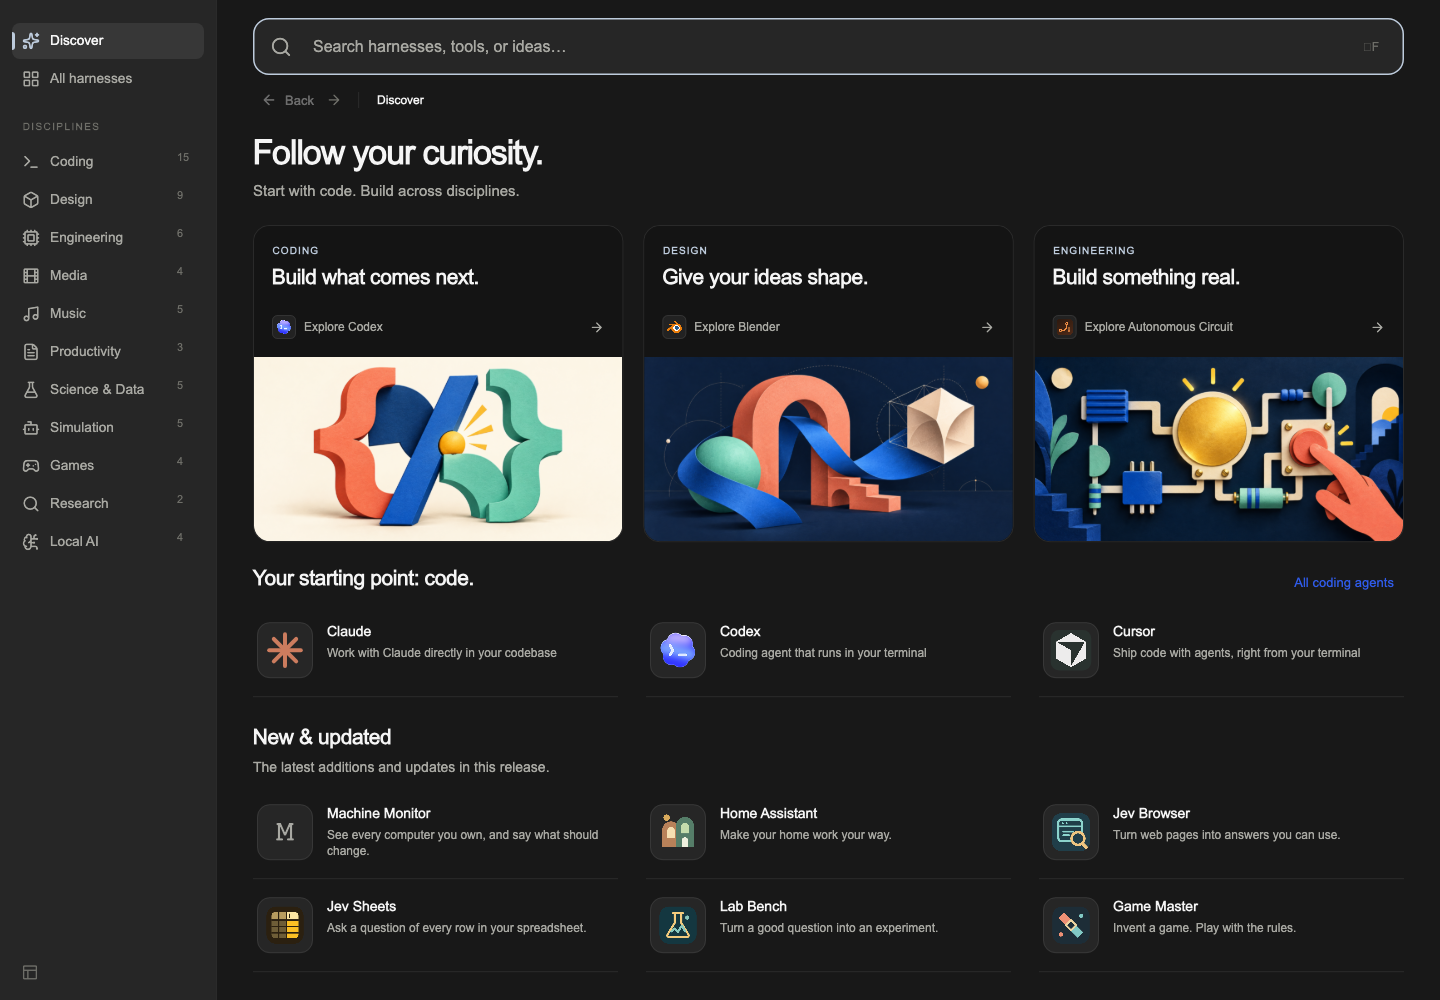
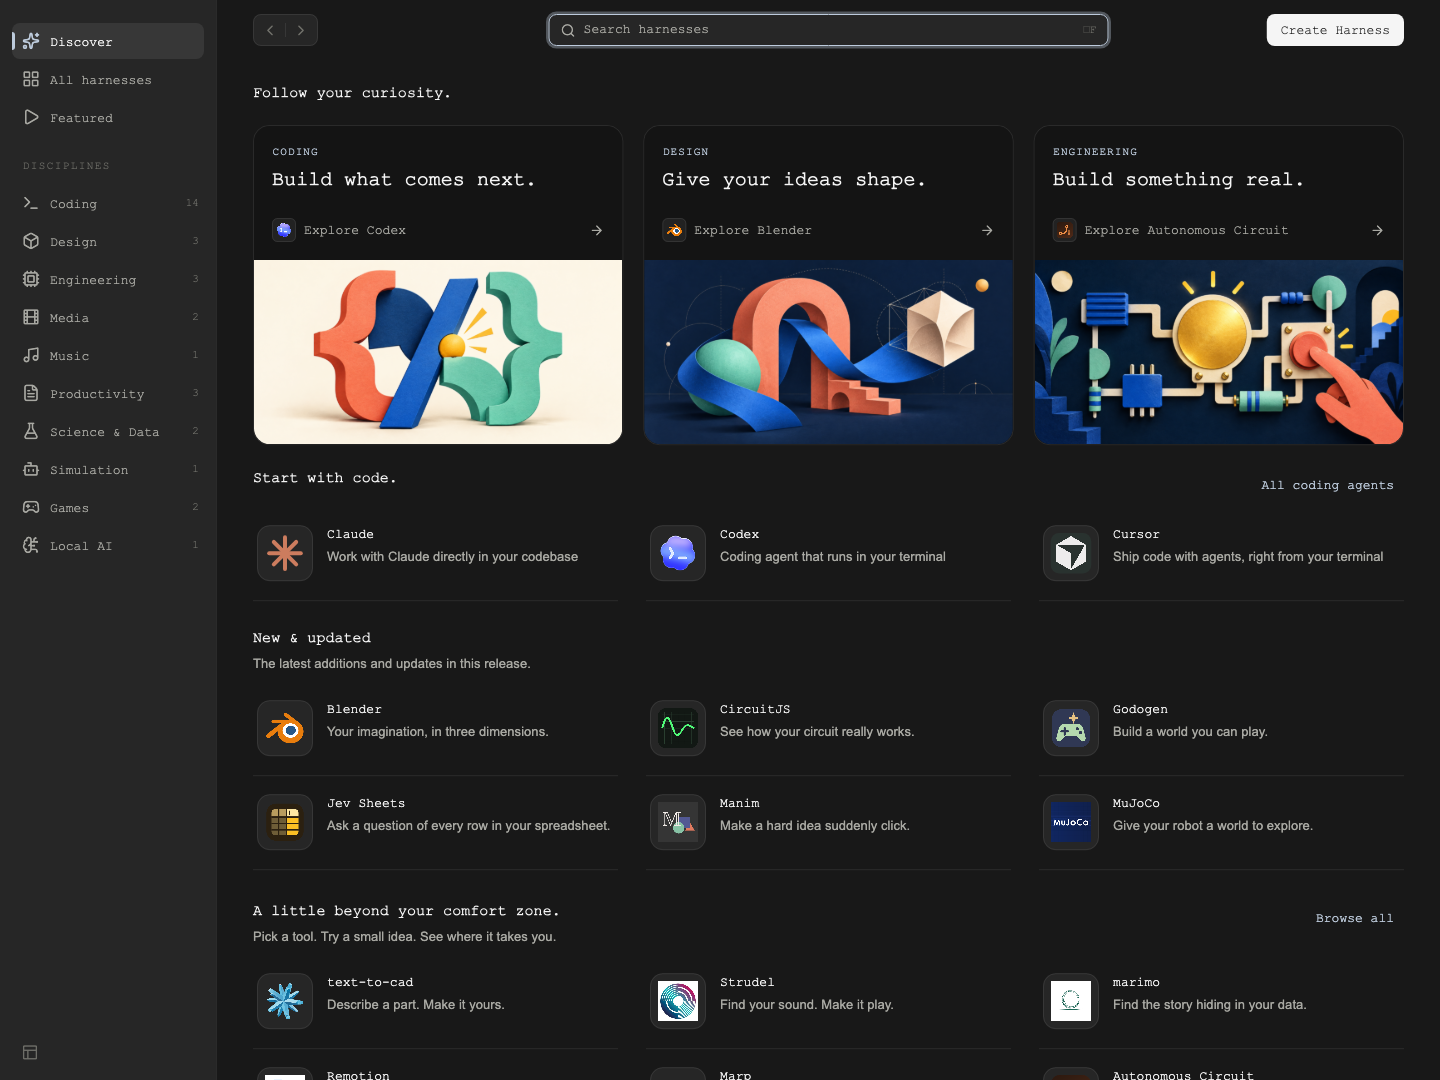
Restore illustrated Discover and keep demos in Featured

diff --git a/desktop/test/store_discover_test.dart b/desktop/test/store_discover_test.dart
@@ -557,66 +557,84 @@ void main() {
     (1440.0, 1.0, Brightness.light),
     (760.0, 1.5, Brightness.dark),
   ]) {
-    testWidgets('recorded discovery fits $width at $scale in ${brightness.name}', (
-      tester,
-    ) async {
-      final entries = _recordedCatalog();
-      await _cacheRecordingPosters(tester, entries);
-      final (_, key) = await _open(
-        tester,
-        entries: entries,
-        width: width,
-        height: 1080,
-        scale: scale,
-        brightness: brightness,
-      );
-      expect(find.text('Featured harnesses'), findsOneWidget);
-      expect(find.text('See all 8'), findsOneWidget);
-      expect(find.byType(StoreFeaturedArt), findsNothing);
-      expect(find.byType(WebViewWidget), findsNothing);
-      for (final entry in entries) {
-        final card = find.byKey(ValueKey('store-session:${entry.id}'));
-        if (card.evaluate().isEmpty) continue;
-        final poster = tester.widget<Image>(
-          find.descendant(
-            of: card,
-            matching: find.byWidgetPredicate(
-              (widget) => widget is Image && widget.image is NetworkImage,
+    testWidgets(
+      'illustrated Discover and Featured fit $width at $scale in ${brightness.name}',
+      (tester) async {
+        final entries = _recordedCatalog();
+        await _cacheRecordingPosters(tester, entries);
+        final (_, key) = await _open(
+          tester,
+          entries: [
+            ..._catalog.where(
+              (entry) => !entries.any((recorded) => recorded.id == entry.id),
             ),
-          ),
+            ...entries,
+          ],
+          width: width,
+          height: 1080,
+          scale: scale,
+          brightness: brightness,
         );
-        expect((poster.image as NetworkImage).url, entry.examples.first.image);
-        expect(poster.fit, BoxFit.contain);
-      }
-      await _capture(
-        tester,
-        key,
-        'featured-${width.toInt()}-${brightness.name}-${scale.toStringAsFixed(1)}',
-      );
-      await tester.tap(find.text('See all 8'));
-      await tester.pumpAndSettle();
-      for (final entry in entries) {
+        expect(find.text('Featured harnesses'), findsNothing);
+        expect(find.text('See all 8'), findsNothing);
+        expect(find.byType(StoreFeaturedArt), findsNWidgets(3));
         expect(
-          find.byKey(ValueKey('store-session:${entry.id}')),
-          findsOneWidget,
+          find.byKey(const ValueKey('store-session:autonomous/blender')),
+          findsNothing,
         );
-        expect(find.text(entry.examples.first.caption!), findsOneWidget);
-      }
-      expect(
-        tester
-            .widget<SidebarItem>(
-              find.byKey(const ValueKey('store-shelf-sessions')),
-            )
-            .selected,
-        isTrue,
-      );
-      await _capture(
-        tester,
-        key,
-        'featured-all-${width.toInt()}-${brightness.name}-${scale.toStringAsFixed(1)}',
-      );
-      expect(tester.takeException(), isNull);
-    });
+        expect(find.byType(WebViewWidget), findsNothing);
+        await _capture(
+          tester,
+          key,
+          'restored-discover-${width.toInt()}-${brightness.name}-${scale.toStringAsFixed(1)}',
+        );
+        // Discover's illustrations may evict posters that are not visible yet.
+        await _cacheRecordingPosters(tester, entries);
+        await tester.tap(find.byKey(const ValueKey('store-shelf-sessions')));
+        await tester.pumpAndSettle();
+        expect(find.text('Featured harnesses'), findsOneWidget);
+        expect(find.text('Preview unavailable'), findsNothing);
+        expect(find.byType(StoreFeaturedArt), findsNothing);
+        for (final entry in entries) {
+          final card = find.byKey(ValueKey('store-session:${entry.id}'));
+          if (card.evaluate().isEmpty) continue;
+          final poster = tester.widget<Image>(
+            find.descendant(
+              of: card,
+              matching: find.byWidgetPredicate(
+                (widget) => widget is Image && widget.image is NetworkImage,
+              ),
+            ),
+          );
+          expect(
+            (poster.image as NetworkImage).url,
+            entry.examples.first.image,
+          );
+          expect(poster.fit, BoxFit.contain);
+        }
+        for (final entry in entries) {
+          expect(
+            find.byKey(ValueKey('store-session:${entry.id}')),
+            findsOneWidget,
+          );
+          expect(find.text(entry.examples.first.caption!), findsOneWidget);
+        }
+        expect(
+          tester
+              .widget<SidebarItem>(
+                find.byKey(const ValueKey('store-shelf-sessions')),
+              )
+              .selected,
+          isTrue,
+        );
+        await _capture(
+          tester,
+          key,
+          'featured-all-${width.toInt()}-${brightness.name}-${scale.toStringAsFixed(1)}',
+        );
+        expect(tester.takeException(), isNull);
+      },
+    );
   }
 
   testWidgets('featured recordings play on demand and open the right harness', (
@@ -625,6 +643,8 @@ void main() {
     final entries = _recordedCatalog();
     final (app, _) = await _open(tester, entries: entries);
     final initialSwarms = app.swarms.length;
+    await tester.tap(find.byKey(const ValueKey('store-shelf-sessions')));
+    await tester.pumpAndSettle();
     expect(find.byType(StoreDemoDialog), findsNothing);
     await tester.tap(
       find.byKey(const ValueKey('store-session-watch:autonomous/blender')),
@@ -653,8 +673,6 @@ void main() {
     await tester.tap(find.byKey(const ValueKey('store-back')));
     await tester.pumpAndSettle();
     expect(find.text('Featured harnesses'), findsOneWidget);
-    await tester.tap(find.text('See all 8'));
-    await tester.pumpAndSettle();
     await tester.ensureVisible(
       find.byKey(const ValueKey('store-session-open:autonomous/rdkit')),
     );
@@ -687,7 +705,7 @@ void main() {
     'featured shelf follows catalog publications and removals while open',
     (tester) async {
       final (app, _) = await _open(tester, entries: _recordedCatalog());
-      await tester.tap(find.text('See all 8'));
+      await tester.tap(find.byKey(const ValueKey('store-shelf-sessions')));
       await tester.pumpAndSettle();
       const newcomer = DshEntry(
         id: 'community/after-release',

diff --git a/desktop/lib/store/store_discover.dart b/desktop/lib/store/store_discover.dart
@@ -12,10 +12,9 @@ import 'store_explore_widgets.dart';
 import 'store_featured_art.dart';
 import 'store_listing.dart';
 import 'store_models.dart';
-import 'store_sessions.dart';
 
-/// Recorded sessions lead discovery whenever the live catalog provides them.
-/// Older catalogs still have the editorial invitations and ordinary collections.
+/// Three editorial features invite exploration before the icon collections. The catalog itself
+/// uses the same recognizable icons and rows as categories and search.
 class StoreDiscover extends StatelessWidget {
   const StoreDiscover({
     super.key,
@@ -26,7 +25,6 @@ class StoreDiscover extends StatelessWidget {
     required this.onCategory,
     required this.onAll,
     required this.onEngines,
-    required this.onSessions,
   });
 
   final List<DshEntry> entries;
@@ -36,13 +34,11 @@ class StoreDiscover extends StatelessWidget {
   final ValueChanged<String> onCategory;
   final VoidCallback onAll;
   final VoidCallback onEngines;
-  final VoidCallback onSessions;
 
   @override
   Widget build(BuildContext context) {
     grid.AppTheme.watch(context);
     final byId = {for (final entry in entries) entry.id: entry};
-    final sessions = storeRecordedSessions(entries);
     // Editorial stories share an art direction and open actual catalog entries.
     final features = [
       ?(byId['codex'] ?? byId['claude']),
@@ -96,35 +92,7 @@ class StoreDiscover extends StatelessWidget {
                       color: grid.AppPalette.textPrimary,
                     ),
                   ),
-                  if (sessions.isNotEmpty) ...[
-                    const SizedBox(height: 24),
-                    StoreExploreHeading(
-                      title: 'Featured harnesses',
-                      subtitle: 'Watch a real session. Find something you want to make.',
-                      action: 'See all ${sessions.length}',
-                      onAction: onSessions,
-                    ),
-                    const SizedBox(height: 20),
-                    StoreSessionGrid(
-                      sessions: sessions.take(6).toList(),
-                      onOpen: onOpen,
-                    ),
-                    const SizedBox(height: 12),
-                    Align(
-                      alignment: Alignment.centerLeft,
-                      child: TextButton.icon(
-                        key: const ValueKey('store-all-sessions'),
-                        onPressed: onSessions,
-                        style: TextButton.styleFrom(
-                          foregroundColor: grid.AppPalette.accentOnSurface,
-                        ),
-                        icon: const Icon(LucideIcons.play300, size: 15),
-                        label: Text(
-                          'Explore all ${sessions.length} featured harnesses',
-                        ),
-                      ),
-                    ),
-                  ] else if (features.isNotEmpty) ...[
+                  if (features.isNotEmpty) ...[
                     const SizedBox(height: 24),
                     LayoutBuilder(
                       builder: (context, constraints) {

diff --git a/desktop/lib/store/store_screen.dart b/desktop/lib/store/store_screen.dart
@@ -548,8 +548,6 @@ class _StoreTabState extends State<StoreTab> {
                                       onCategory: (name) =>
                                           _show(_Category(name)),
                                       onAll: () => _show(const _All()),
-                                      onSessions: () =>
-                                          _show(const _Sessions()),
                                       onEngines: () =>
                                           _show(const _Category('Coding')),
                                     )

diff --git a/desktop/lib/store/store_sessions.dart b/desktop/lib/store/store_sessions.dart
@@ -9,7 +9,7 @@ import 'store_editorial.dart';
 import 'store_listing.dart';
 
 /// A permanent way to browse the catalog's recordings, including sessions that
-/// arrive after this desktop release. The same cards lead Discover.
+/// arrive after this desktop release. Discover keeps its editorial illustrations.
 class StoreSessions extends StatelessWidget {
   const StoreSessions({
     super.key,

diff --git a/desktop/test/store_viewers_test.dart b/desktop/test/store_viewers_test.dart
@@ -173,7 +173,6 @@ void main() {
       await _show(
         tester,
         StoreDiscover(
-          onSessions: () {},
           entries: const [
             DshEntry(
               id: 'autonomous/strudel',

diff --git a/store/README.md b/store/README.md
@@ -154,13 +154,13 @@ whole native pane, and stops when the recording closes. Older clients keep showi
 and picture. The eight hands-on recordings reuse their original PNG/MP4 assets in `docs/images/`
 rather than the JPEG convention above.
 
-Recordings also lead the desktop Store's **Discover** page under **Featured harnesses**
-and appear on the **Featured** shelf.
+Recordings appear in the desktop Store's **Featured** tab. **Discover** keeps its
+illustrated editorial features.
 To join that collection, publish an example with both an HTTPS `image` poster and an HTTPS
 `video`. The first complete recording per harness is used; the card shows the harness's
 `tagline` and the recording's `caption`, with Watch session and Explore harness actions.
-Use the caption to identify the actual result and any demo limitations. The Discover preview
-mixes disciplines and links to the full collection; new catalog recordings join automatically
+Use the caption to identify the actual result and any demo limitations. The Featured tab
+mixes disciplines and shows the full collection; new catalog recordings join automatically
 on clients with this discovery UI. No per-harness desktop artwork or ID list is needed.
 Example prompts and captions are searchable too.
 

diff --git a/desktop/assets/store/README.md b/desktop/assets/store/README.md
@@ -10,8 +10,8 @@ in the local machine's catalog.
 `editorial-*.png` are eleven original illustrations generated with the built-in
 imagegen tool. The exact prompts and file mapping are in
 [`editorial-prompts.json`](../../tool/store_artwork/editorial-prompts.json).
-Discover uses three illustrated features (coding, 3D design, circuits) when the catalog
-has no recorded examples; each discipline uses one feature. Catalog rows use app icons.
+Discover uses three illustrated features (coding, 3D design, circuits); each discipline
+uses one feature. Recordings have their own Featured tab. Catalog rows use app icons.
 These illustrations depict a craft,
 not an app screenshot or a claimed agent result.
 
